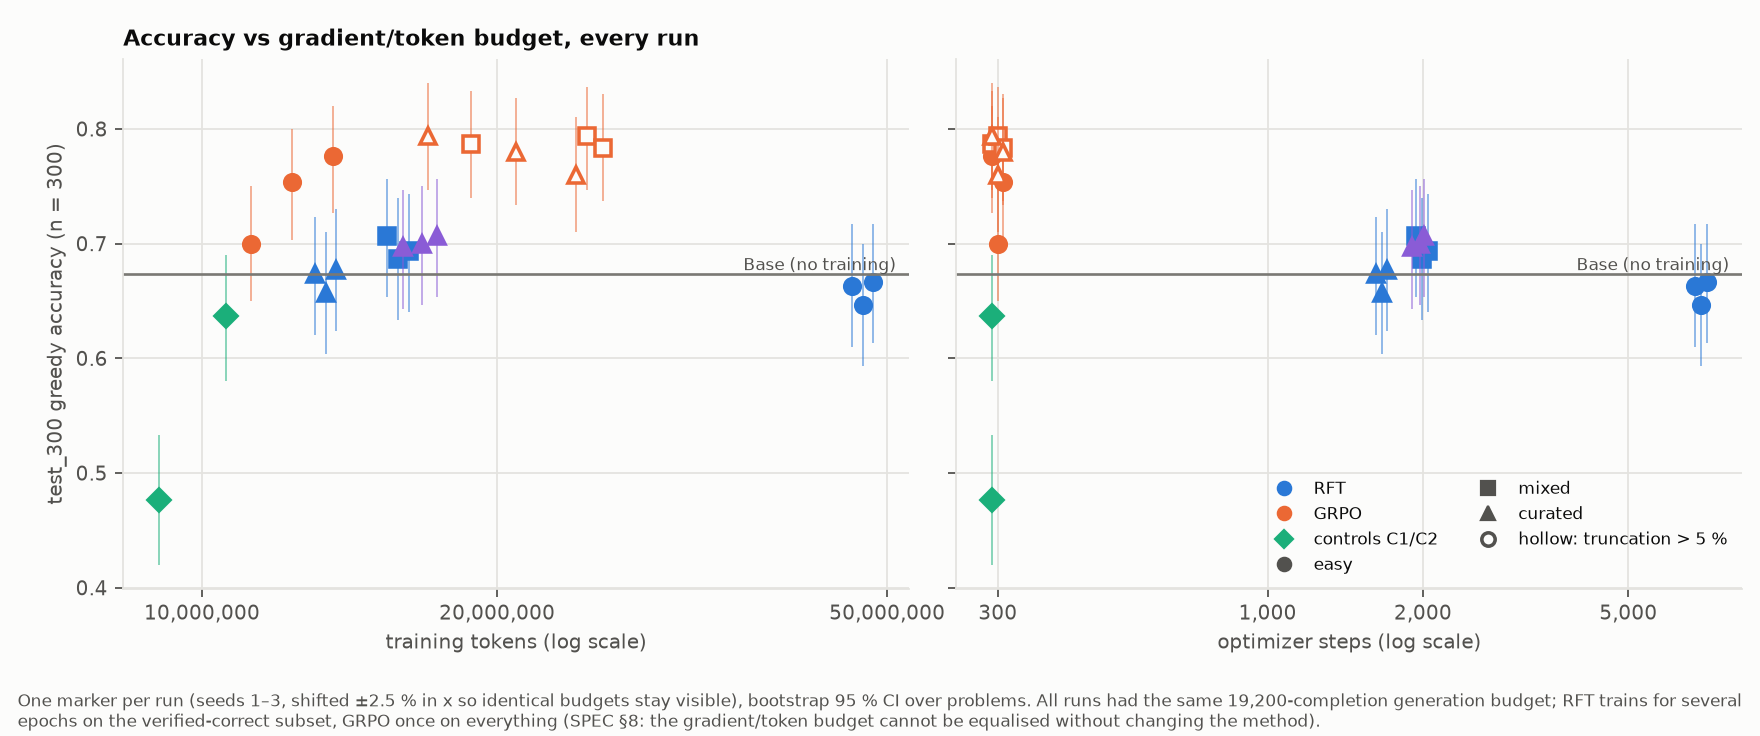
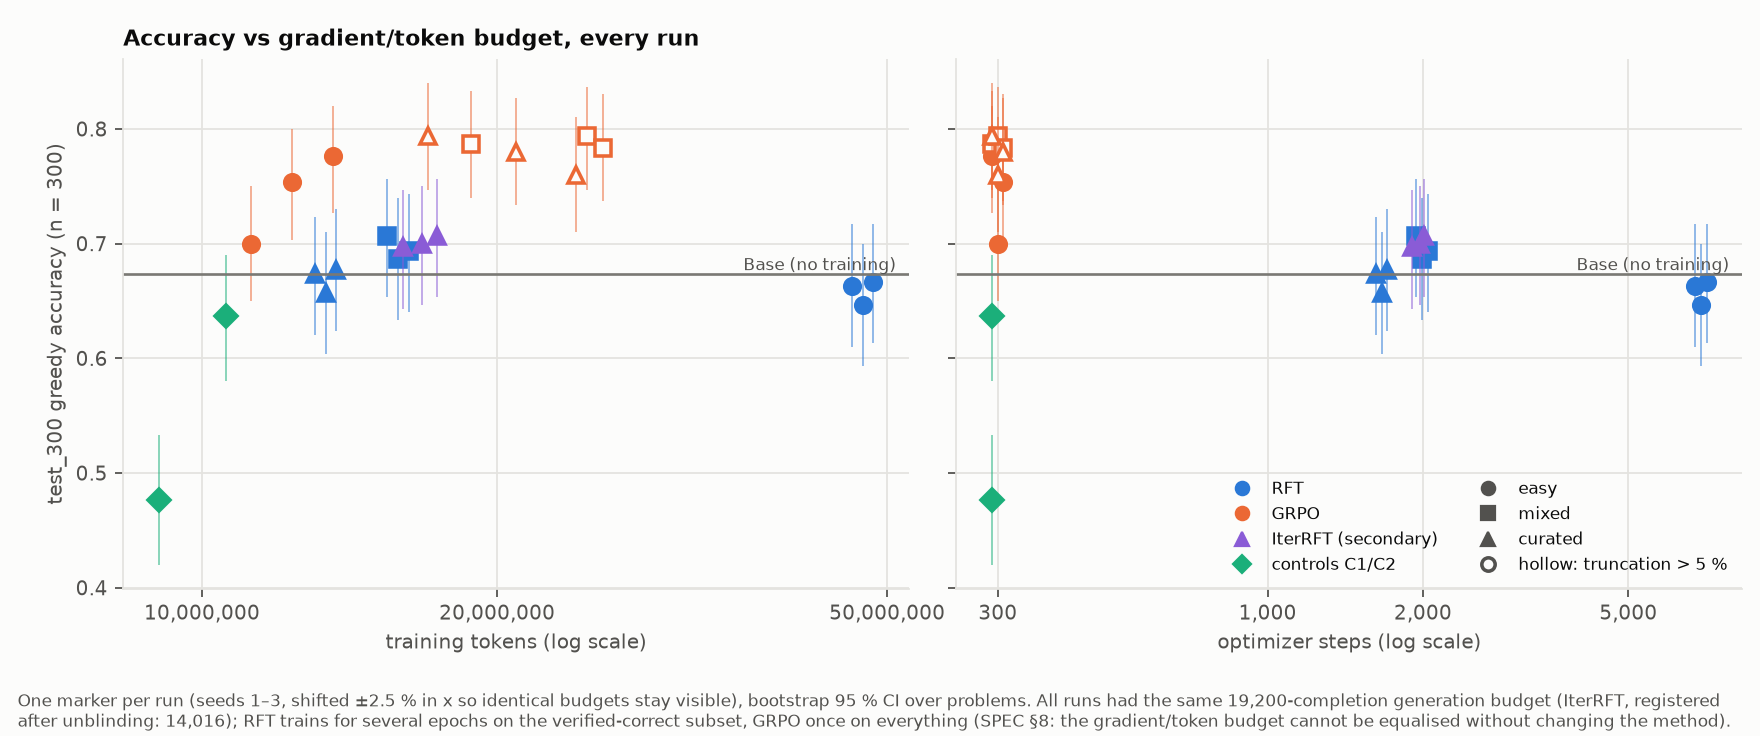
tasks/07: compute log, Phase 5 figures (d) and (g) refreshed, notebook entry

Changed region(s): [[0.0, 0.9375, 1.0, 1.0], [0.8438, 0.6562, 0.9688, 0.7812], [0.6875, 0.6562, 0.8125, 0.7812]]

diff --git a/reports/compute_log.md b/reports/compute_log.md
@@ -1,0 +1,38 @@
+# Compute log (tasks/07)
+
+Generated by `scripts/compute_log.py` from every `meta.json` under `runs/store_mirror/runs` (read-only). GPU: NVIDIA H100 PCIe, one per instance (Lambda, us-west-3). **GPU-hours are the primary quantity**: the hours the code metered around training and generation. Dollars are those hours × $3.29/h, the rate Lambda billed (`meta.json` files record $4.29/h). An instance is billed for more than the metered hours — setup, weight downloads, model loads between jobs, store syncs, the 30-minute idle-guard window — and that overhead is recorded nowhere in the run root, so the invoice is the only source for total spend.
+
+## Per arm
+
+| arm | training, result-bearing seeds | training, other sweep configs | final evals | val evals (selection / checkpoints / rounds) | superseded evals (not results) | total GPU-h | $ at $3.29/h |
+|---|---|---|---|---|---|---|---|
+| RFT-Easy | 21.28 (3) | 30.07 (8) | 1.40 (27) | 0.21 (9) | 0.16 (9) | 53.11 | $175 |
+| RFT-Mixed | 6.97 (3) | 22.11 (8) | 1.52 (27) | 0.23 (9) | 0.18 (9) | 31.01 | $102 |
+| RFT-Curated | 5.86 (3) | 18.47 (8) | 1.53 (27) | 0.23 (9) | 0.17 (9) | 26.26 | $86 |
+| GRPO-Easy | 15.50 (3) | — | 2.67 (27) | 0.31 (12) | — | 18.48 | $61 |
+| GRPO-Mixed | 27.05 (3) | — | 4.67 (27) | 0.32 (12) | — | 32.04 | $105 |
+| GRPO-Curated | 25.05 (3) | — | 4.06 (27) | 0.32 (12) | — | 29.43 | $97 |
+| IterRFT-Curated (secondary) | 7.98 (3) | — | 1.63 (27) | 0.22 (9) | — | 9.83 | $32 |
+| C1 random reward | 5.85 (1) | — | 0.43 (9) | 0.10 (4) | — | 6.38 | $21 |
+| C2 format only | 5.01 (1) | — | 0.45 (9) | 0.06 (4) | — | 5.52 | $18 |
+| **all arms and controls** | | | | | | **212.05** | **$698** |
+
+Cell = GPU-hours (number of runs or eval units). RFT: 9 configurations per arm were trained on seed 1 and one was selected on val_mixed_100; the 8 others are the sweep column. GRPO: one fixed recipe, nothing swept; its val evals are the step-100/200/300 checkpoints. IterRFT: training includes the on-policy sampling of rounds 2–3; registered after unblinding (PREREGISTRATION §6).
+
+## Everything else
+
+| what | GPU-h (metered runs / units) | $ |
+|---|---|---|
+| base + reference model evals (Phase 1; base gsm8k mean@8 from tasks/06b) | 3.12 (36) | $10 |
+| pass@8 tiering of the pool (Phase 1) | 0.90 (2) | $3 |
+| provisional cap run (Phase 1) | 0.08 (1) | $0 |
+| transfer-set pick (Phase 1) | 0.05 (3) | $0 |
+| RFT base draw, 192 samples per prompt (shared by every RFT arm and seed) | 0.58 (1) | $2 |
+| EXPLORATORY cap-8,704 re-eval (tasks/06b; never a SPEC §10 number) | 1.46 (20) | $5 |
+| RFT runs before the EOS amendment (never results; PREREGISTRATION §4) | 17.64 (14) | $58 |
+| failed GRPO attempt: bf16-merge collapse of grpo_mixed_s1 (never a result) | 16.49 (11) | $54 |
+| Gemma smoke test (stub-level; Gemma was never evaluated) | 0.13 (7) | $0 |
+| development runs | 0.19 (33) | $1 |
+| **everything else** | **40.64** | **$134** |
+
+**Metered total: 252.69 GPU-hours = $831 at $3.29/h** ($1,084 at the $4.29/h written into the meta.json files). 2 meta.json file(s) carry no `gpu_hours_actual` and are not counted: rft_noeos_ablation/rft_mixed/seed1_lr0.0001_ep4/meta.json, tier/tier_Qwen__Qwen3-4B-Base_k8_seed1_provisional/meta.json.

diff --git a/notebook/LAB_NOTEBOOK.md b/notebook/LAB_NOTEBOOK.md
@@ -14,6 +14,13 @@ One entry per run or decision. Newest at the top. Copy the template.
 
 ## Entries
 
+### 2026-09-21 — tasks/07 (agent half, local parts): README, compute log, figures finalized, HF release staged — nothing published
+- Config hash: analysis 3ba220e48a66 | git SHA: 61e1cf3 | GPU: none | wall-clock: — | est. cost: $0
+- What I ran / decided: on Laksh's go-ahead for tasks/07, did the reversible parts only. `README.md` rewritten with the reproduction commands (env → gen → cap/tier → evals → rft → grpo → tasks/06b → analysis) and the caveats that travel with every number. `scripts/compute_log.py` → `reports/compute_log.{md,csv}`, from every meta.json in the mirror, classified by path only, the iterated-RFT round files skipped because the run-level file already sums them. Figures: checking all nine with the ninth arm found two regressions — the fixed 2 × 4 grid of (d) had silently dropped the C2 panel, and (g) lacked the IterRFT legend entry and claimed a 19,200 budget for every run; both fixed, (d) and (g) re-snapshotted into results/phase5, every table byte-identical. `scripts/hf_release.py` stages one folder per trained run with a generated model card and uploads only with `--push --namespace`; ran it without: 23 adapters, 12.2 GB, under the gitignored `outputs/hf_release/`. Not done, deliberately: the HF upload and making the repo public — both are irreversible and wait for an explicit go; the IterRFT adapters are staged but whether they join the collection is Laksh's call (`--skip-secondary`); the card license defaults to apache-2.0 (the base model's) and is his to confirm.
+- Result (with n, seed, CI, truncation%): no new model numbers. Compute, metered by the code on 1× H100 PCIe: 252.69 GPU-h = $831 at the $3.29/h billed; arms and controls 212.05 GPU-h (RFT-Easy 53.11, RFT-Mixed 31.01, RFT-Curated 26.26 — of which the 8 unselected sweep configs are 30.07 / 22.11 / 18.47; GRPO-Easy 18.48, GRPO-Mixed 32.04, GRPO-Curated 29.43; IterRFT 9.83; C1 6.38; C2 5.52); never-results 34.13 (pre-EOS RFT runs 17.64, the failed bf16-merge GRPO attempt 16.49). Instance billing above the metered hours (setup, model loads, syncs, guard windows) is recorded nowhere; the invoice is the only source.
+- What I learned (one sentence): a figure with a hard-coded grid drops a panel without any error when an arm is added, so every figure has to be looked at after a config change, not just regenerated.
+- Next: Laksh grades the seven verdict lines and writes the draft; on his explicit go: `uv run python scripts/hf_release.py --push --namespace <name>` (then put the collection link in README.md), repo public last. Owed: the `wall_clock_s: 0.001` fix in the iterated-RFT run-level meta writer.
+
 ### 2026-09-21 — decision (Laksh): no single-host re-evaluation; results stay as they are
 - Config hash: n/a (decision) | git SHA: 46d65e4 | GPU: none | wall-clock: — | est. cost: $0 (the ≈ 6–8 GPU-h re-evaluation is not run)
 - What I ran / decided: asked whether the cross-host non-reproducibility of greedy decoding (entry below) warrants re-evaluating every final adapter on one host before the write-up, Laksh decided no: excessive, keep the results as is. Nothing is re-run; `results/phase5` stands.

diff --git a/results/phase5/README.md b/results/phase5/README.md
@@ -2,7 +2,9 @@
 
 A committed snapshot of `outputs/` (gitignored) as written by `make analysis` at ed1d408 on 2026-09-21
 from `runs/store_mirror/runs`, plus the small provenance files of the new runs under `runs/` (no samples,
-no weights). Analysis config `configs/analysis/default.yaml`, hash `3ba220e48a66`; bootstrap seed 0,
+no weights). Figures (d) and (g) were regenerated at 61e1cf3 (tasks/07: the ninth arm had pushed the C2
+panel out of (d); (g) gained the IterRFT legend entry) — tables and sheets are byte-identical to ed1d408.
+Analysis config `configs/analysis/default.yaml`, hash `3ba220e48a66`; bootstrap seed 0,
 10,000 resamples; SPEC v1.8. Sanity: 13 checks pass with the new arm included. No file exceeds 1 MB.
 
 **Everything Phase 4 reported is unchanged.** `uv run python scripts/compare_phase_tables.py results/phase4
